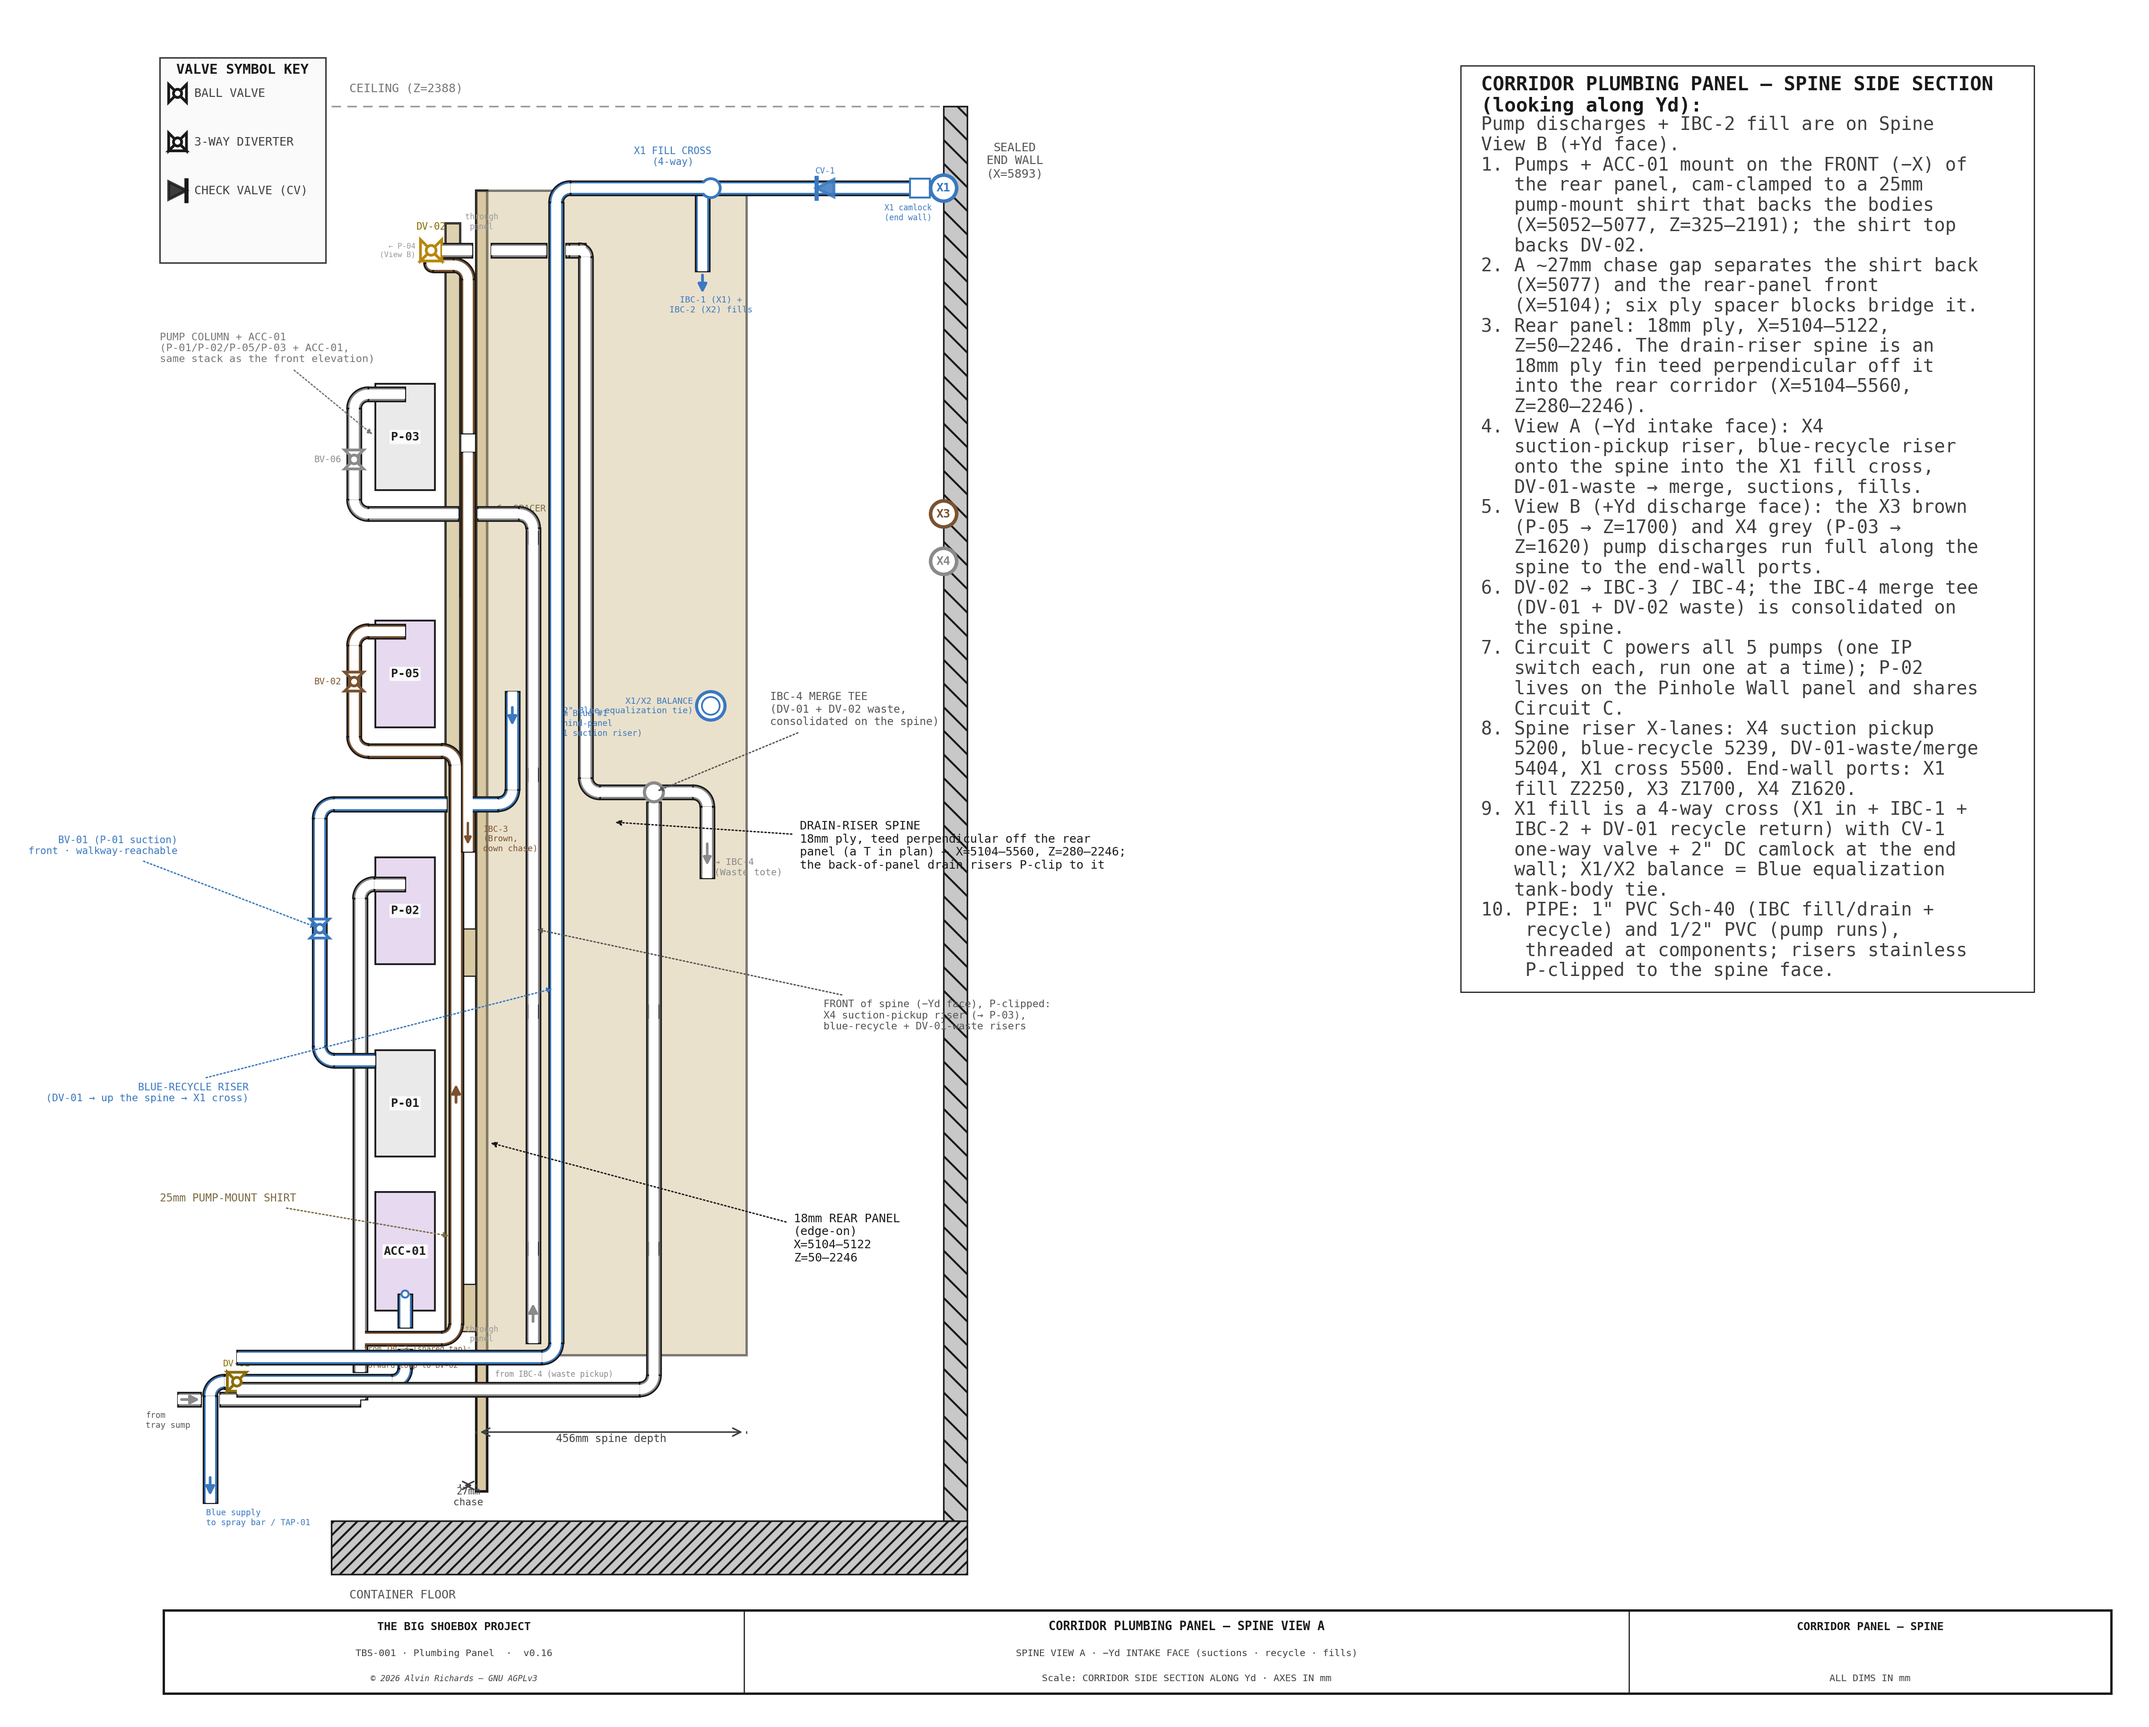
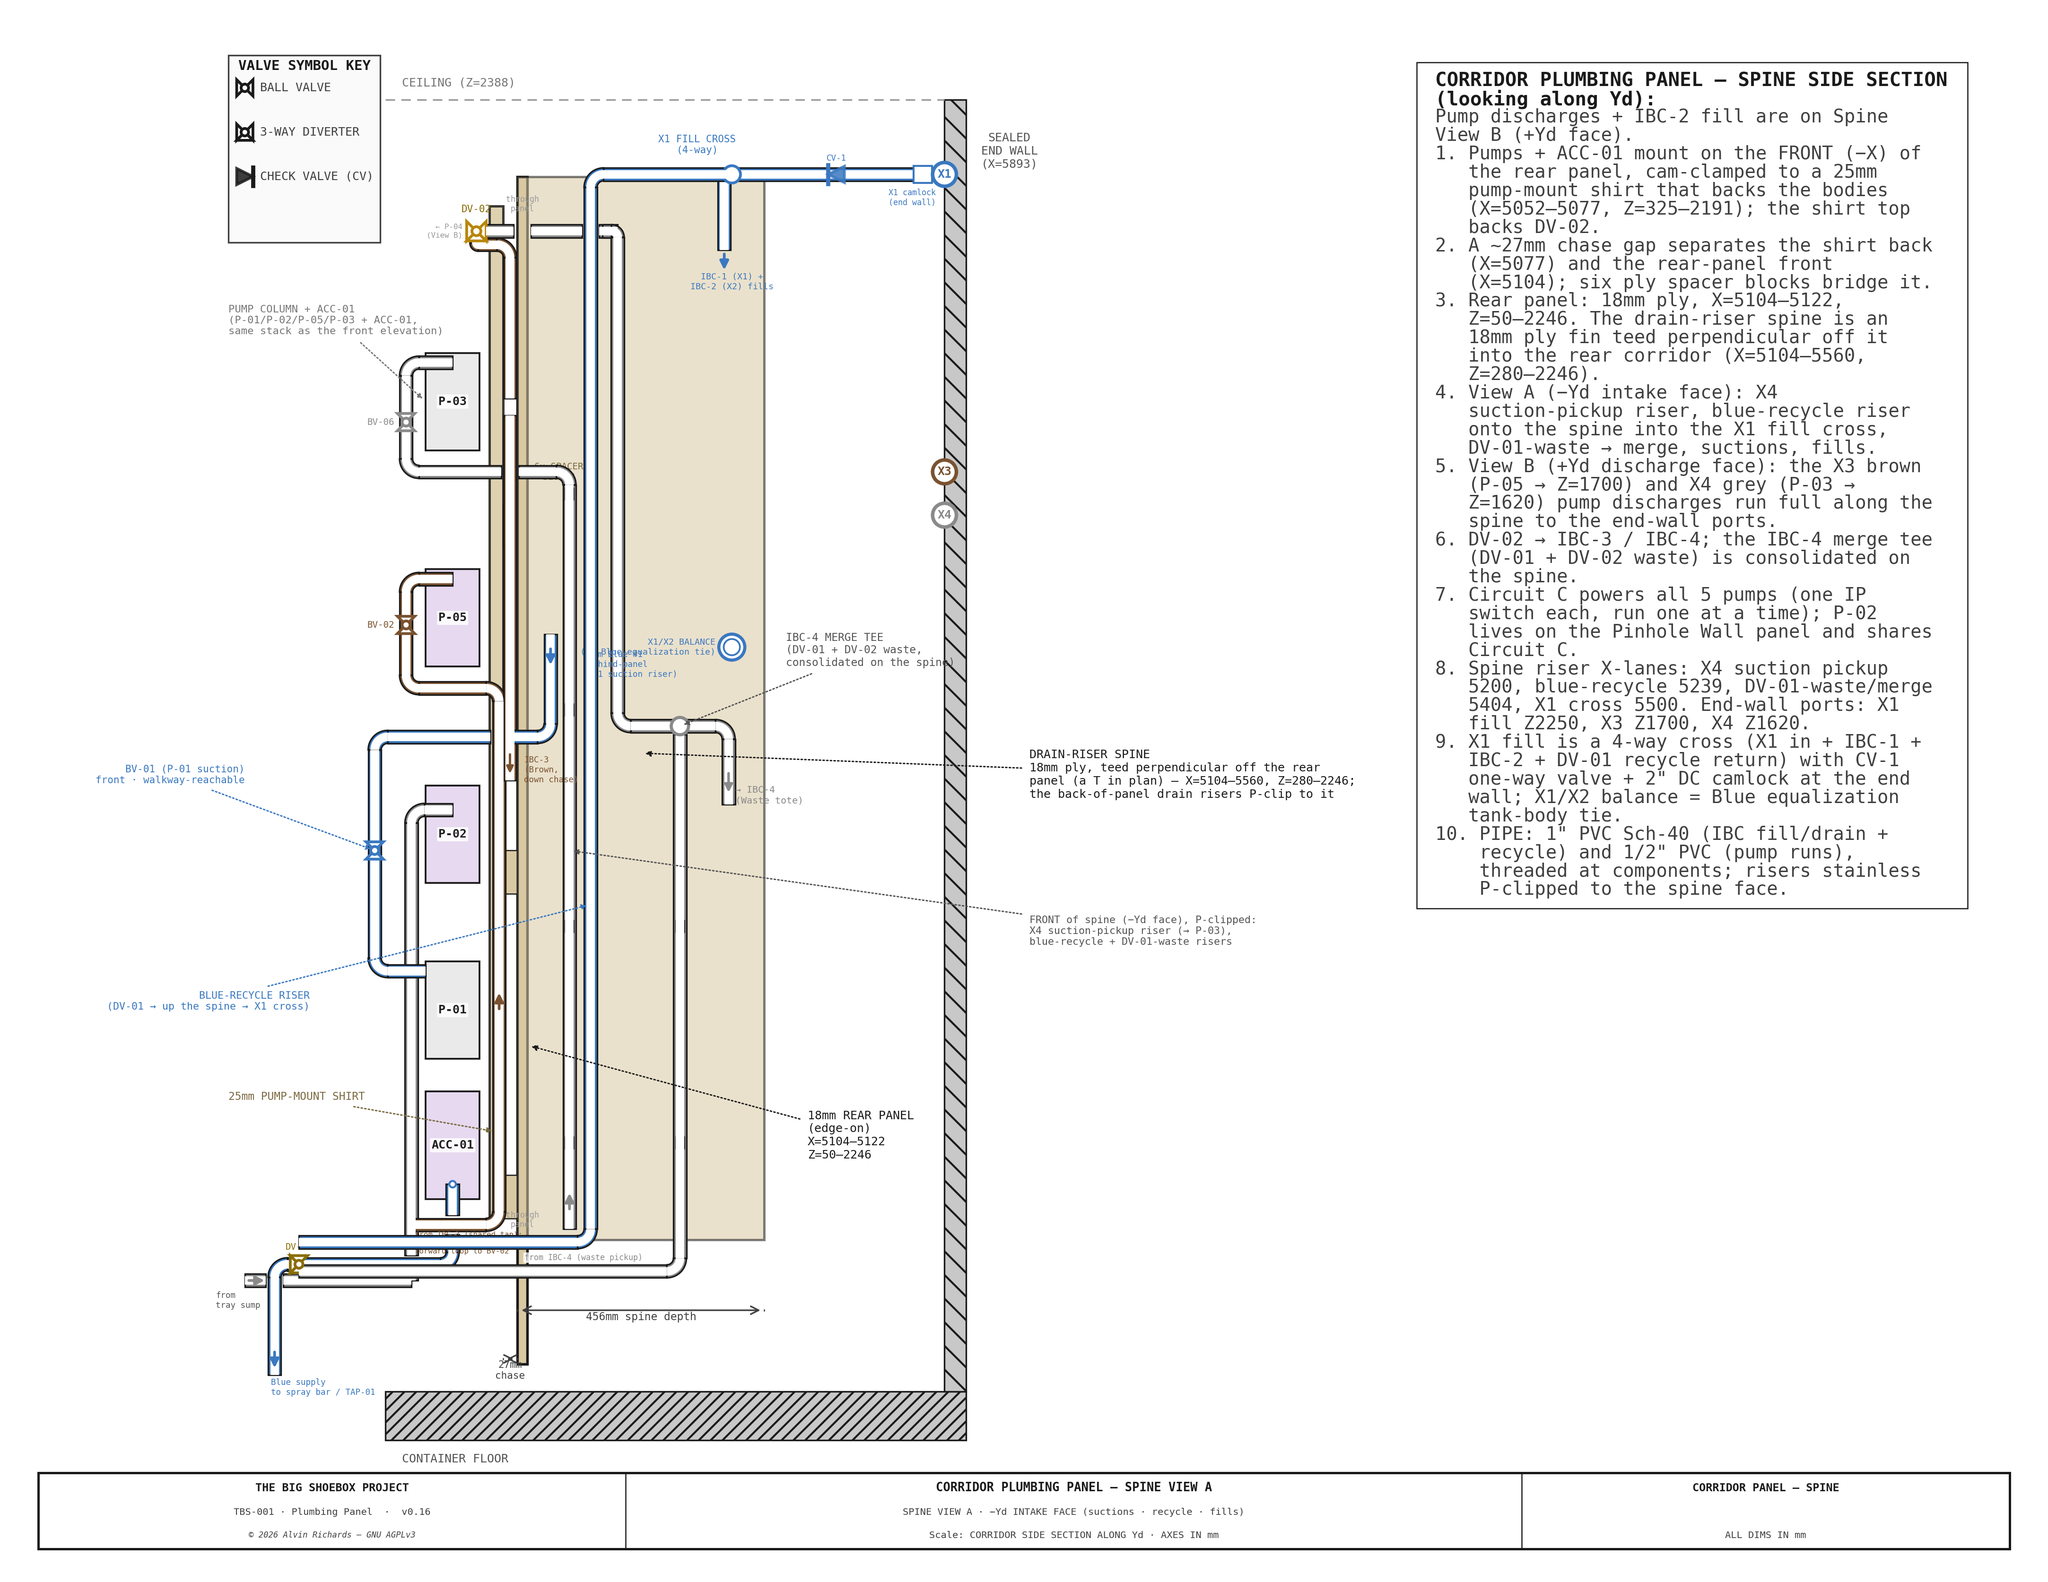
Tidy labels

diff --git a/src/generators/generate_panel_layout.py b/src/generators/generate_panel_layout.py
@@ -1047,7 +1047,7 @@ def spine_view(side):
     # the full-width title block — instead of hanging off its right edge.  The
     # mirror map (mxa) pivots on the DRAWING-span center (D0+D1)/2, independent of
     # the margin, so View B still mirrors with the notes in the same screen corner.
-    D0, D1, NOTE_MARGIN = 4560, 6760, 1120
+    D0, D1, NOTE_MARGIN = 4200, 6760, 1120
     figb, axb = plt.subplots(figsize=(12.6 * (D1 - D0 + NOTE_MARGIN) / (D1 - D0), 15.3))
     if side == 'a':
         axb.set_xlim(D0, D1 + NOTE_MARGIN)
@@ -1106,7 +1106,7 @@ def spine_view(side):
     # VIEW B (mirror) draws the +Yd discharge runs.
     _rect(PANX, SPINE_ZB, SPX1 - PANX, SPINE_ZT - SPINE_ZB, C_PLYB, lw=1.2,
           z0=8, alpha=0.55)
-    leader(axb, (PANX + SPX1) / 2, 1180, 5650, 1140,
+    leader(axb, (PANX + SPX1) / 2, 1180, 6050, 1140,
            f"DRAIN-RISER SPINE\n18mm ply, teed perpendicular off the rear\n"
            f"panel (a T in plan) — X={PANX}–{SPX1}, Z={SPINE_ZB}–{SPINE_ZT};\n"
            "the back-of-panel drain risers P-clip to it",
@@ -1287,7 +1287,7 @@ def spine_view(side):
                 cz = 460 + i * 400
                 if cz < zt - 80:
                     _rect(rx - 8, cz - 11, 16, 22, C_STEEL, lw=0.6, z0=11)
-        leader(axb, RX4, 1000, 5690, 880,
+        leader(axb, RX4, 1000, 6050, 880,
                "FRONT of spine (−Yd face), P-clipped:\nX4 suction-pickup riser (→ P-03),\nblue-recycle + DV-01-waste risers",
                color="#555", fs=5.2, ha="left", va="top", arrow_style="-|>", font=FB)
         leader(axb, RX_BLUE, 900, 4720, 740, "BLUE-RECYCLE RISER\n(DV-01 → up the spine → X1 cross)",
@@ -1356,7 +1356,7 @@ def spine_view(side):
         "8. Spine riser X-lanes: X4 suction pickup 5200, blue-recycle 5239, DV-01-waste/merge 5404, X1 cross 5500. End-wall ports: X1 fill Z2250, X3 Z1700, X4 Z1620.",
         "9. X1 fill is a 4-way cross (X1 in + IBC-1 + IBC-2 + DV-01 recycle return) with CV-1 one-way valve + 2\" DC camlock at the end wall; X1/X2 balance = Blue equalization tank-body tie.",
         "10. PIPE: 1\" PVC Sch-40 (IBC fill/drain + recycle) and 1/2\" PVC (pump runs), threaded at components; risers stainless P-clipped to the spine face.",
-    ], mxa(6800), 2440, spacing=34, fs=9.3, ha="left", width=900, wrap=45, font=FB)
+    ], mxa(6800), 2440, spacing=34, fs=9.3, ha="left", width=950, wrap=45, font=FB)
 
     # ── SYMBOL KEY (top-left screen corner; mxa anchors the screen-left edge,
     #    and draw_symbol_key lays out in screen space for the reversed View-B axis) ──
